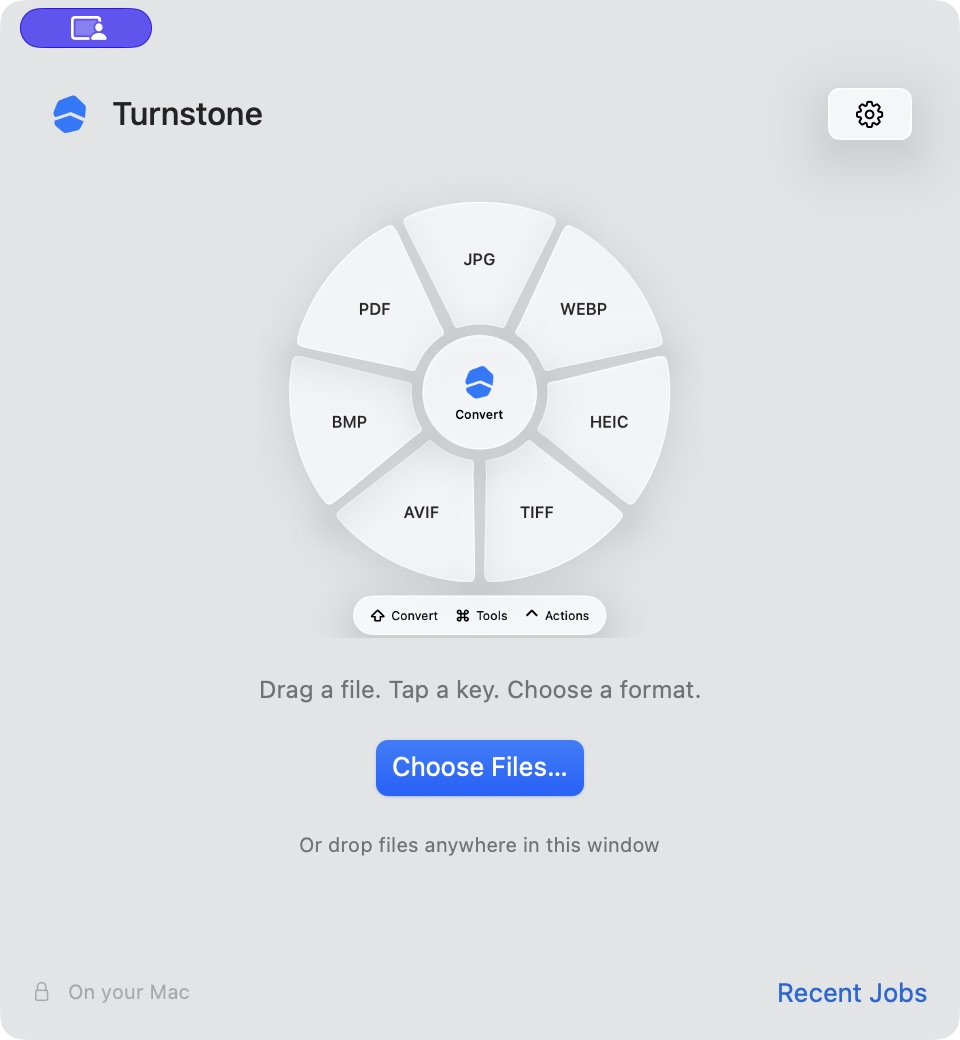
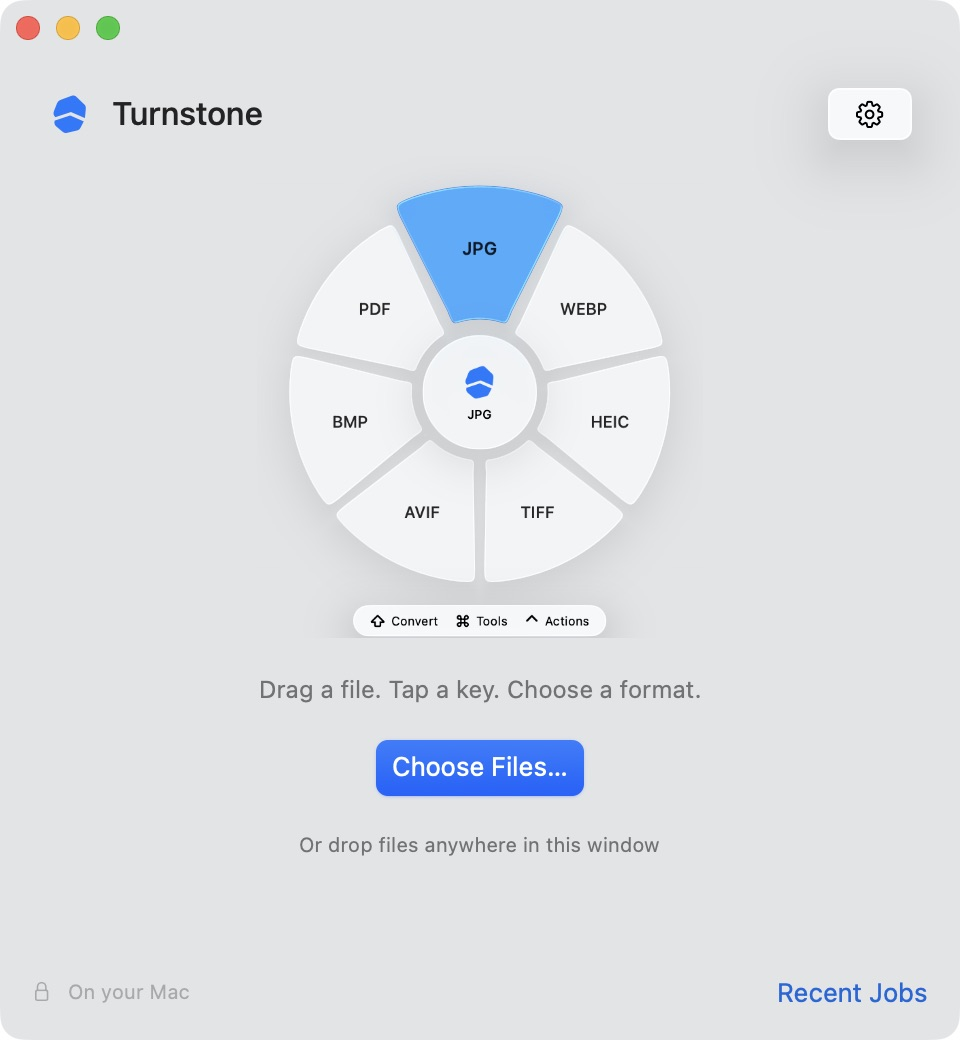
fix: quiet conversions and animate wheel selection

diff --git a/Sources/Turnstone/WheelAppearance.swift b/Sources/Turnstone/WheelAppearance.swift
@@ -9,6 +9,26 @@ struct WheelPetalAppearance: Identifiable {
     let position: CGPoint
 }
 
+enum WheelEmphasis {
+    static let scale: CGFloat = 1.08
+    static let lift: CGFloat = 8
+
+    static func offset(at anchor: CGPoint, from center: CGPoint) -> CGSize {
+        let dx = anchor.x - center.x, dy = anchor.y - center.y
+        let distance = hypot(dx, dy)
+        guard distance > 0 else { return .zero }
+        return CGSize(width: dx / distance * lift, height: dy / distance * lift)
+    }
+
+    static func transform(at anchor: CGPoint, from center: CGPoint, amount: CGFloat = 1) -> CGAffineTransform {
+        let offset = offset(at: anchor, from: center)
+        let scale = 1 + (scale - 1) * amount
+        return CGAffineTransform(translationX: anchor.x + offset.width * amount, y: anchor.y + offset.height * amount)
+            .scaledBy(x: scale, y: scale)
+            .translatedBy(x: -anchor.x, y: -anchor.y)
+    }
+}
+
 struct WheelAppearance: View {
     let petals: [WheelPetalAppearance]
     let selected: Int?
@@ -28,12 +48,12 @@ struct WheelAppearance: View {
                 shortcut(WheelMode.tools, "Tools")
                 shortcut(WheelMode.actions, "Actions")
             }
-            .padding(.horizontal, 12).padding(.vertical, 7)
+            .padding(.horizontal, 12).padding(.vertical, 4)
             .modifier(WheelGlass(shape: Capsule(), selected: false))
-            .fixedSize().position(x: center.x, y: 337)
+            .fixedSize().position(x: center.x, y: 341)
         }
         .frame(width: 328, height: 354)
-        .animation(reduceMotion ? nil : .easeInOut(duration: 0.14), value: selected)
+        .animation(reduceMotion ? nil : .spring(response: 0.26, dampingFraction: 0.72), value: selected)
         .allowsHitTesting(false)
         .accessibilityHidden(true)
     }
@@ -48,13 +68,24 @@ struct WheelAppearance: View {
             .modifier(WheelGlass(shape: RoundedRectangle(cornerRadius: 26), selected: false))
             .position(center)
         } else {
-            ForEach(petals) { petal in
-                Color.clear
-                    .frame(width: 328, height: 354)
-                    .modifier(WheelGlass(shape: PetalShape(path: petal.path), selected: selected == petal.id))
+            ZStack {
+                ForEach(petals) { petal in
+                    let active = selected == petal.id
+                    let lifted = active && !reduceMotion
+                    // Animating the path keeps native glass, its outline, and hit testing aligned.
+                    let shape = PetalShape(path: petal.path, anchor: petal.position, center: center, emphasis: lifted ? 1 : 0)
+                    Color.clear
+                        .frame(width: 328, height: 354)
+                        .modifier(WheelGlass(shape: shape, selected: active))
+                        .overlay(shape.stroke(Color.accentColor.opacity(active ? 0.85 : 0), lineWidth: 1.2))
+                        .shadow(color: Color.accentColor.opacity(active ? 0.20 : 0), radius: 8, y: 3)
+                        .zIndex(active ? 1 : 0)
+                }
             }
             // Keep labels above every glass surface so neighboring petals cannot refract them.
             ForEach(petals) { petal in
+                let lifted = selected == petal.id && !reduceMotion
+                let offset = lifted ? WheelEmphasis.offset(at: petal.position, from: center) : .zero
                 VStack(spacing: 5) {
                     if let symbol = petal.symbol {
                         Image(systemName: symbol).font(.system(size: 17, weight: .regular))
@@ -65,7 +96,9 @@ struct WheelAppearance: View {
                 }
                 .foregroundStyle(.primary)
                 .frame(width: petals.count > 7 ? 64 : 78)
+                .scaleEffect(lifted ? WheelEmphasis.scale : 1)
                 .position(petal.position)
+                .offset(offset)
             }
             VStack(spacing: 4) {
                 if let icon { Image(nsImage: icon).resizable().scaledToFit().frame(width: 27, height: 27) }
@@ -88,7 +121,16 @@ struct WheelAppearance: View {
 
 private struct PetalShape: Shape {
     let path: Path
-    func path(in rect: CGRect) -> Path { path }
+    let anchor: CGPoint
+    let center: CGPoint
+    var emphasis: CGFloat
+    var animatableData: CGFloat {
+        get { emphasis }
+        set { emphasis = newValue }
+    }
+    func path(in rect: CGRect) -> Path {
+        path.applying(WheelEmphasis.transform(at: anchor, from: center, amount: emphasis))
+    }
 }
 
 private struct WheelGlass<S: Shape>: ViewModifier {
@@ -102,15 +144,15 @@ private struct WheelGlass<S: Shape>: ViewModifier {
             content.background {
                 ZStack {
                     shape.fill(Color(nsColor: .windowBackgroundColor))
-                    if selected { shape.fill(Color.accentColor.opacity(0.20)) }
+                    if selected { shape.fill(Color.accentColor.opacity(0.35)) }
                 }
             }
             .overlay(shape.stroke(Color.primary.opacity(contrast == .increased ? 0.45 : 0.12), lineWidth: contrast == .increased ? 1 : 0.5))
         } else if #available(macOS 26, *) {
-            content.glassEffect(.regular.tint(selected ? Color.accentColor.opacity(0.25) : nil), in: shape)
+            content.glassEffect(.regular.tint(selected ? Color.accentColor.opacity(0.60) : nil), in: shape)
         } else {
             content.background(.ultraThinMaterial, in: shape)
-                .background(selected ? Color.accentColor.opacity(0.22) : .clear, in: shape)
+                .overlay(shape.fill(selected ? Color.accentColor.opacity(0.30) : .clear))
                 .overlay(shape.stroke(Color.primary.opacity(contrast == .increased ? 0.45 : 0.10), lineWidth: 0.5))
         }
     }

diff --git a/Tests/TurnstoneAppTests/InteractionTests.swift b/Tests/TurnstoneAppTests/InteractionTests.swift
@@ -1,0 +1,49 @@
+import AppKit
+import Combine
+import XCTest
+import TurnstoneCore
+@testable import Turnstone
+
+final class InteractionTests: XCTestCase {
+    @MainActor
+    func testSubmittingConversionDoesNotOpenRecentJobs() async throws {
+        _ = NSApplication.shared
+        let directory = FileManager.default.temporaryDirectory.appendingPathComponent(UUID().uuidString)
+        try FileManager.default.createDirectory(at: directory, withIntermediateDirectories: true)
+        defer { try? FileManager.default.removeItem(at: directory); Windows.close("jobs") }
+        let source = directory.appendingPathComponent("sample.png")
+        let bitmap = NSBitmapImageRep(bitmapDataPlanes: nil, pixelsWide: 8, pixelsHigh: 8, bitsPerSample: 8, samplesPerPixel: 4, hasAlpha: true, isPlanar: false, colorSpaceName: .deviceRGB, bytesPerRow: 0, bitsPerPixel: 0)!
+        try XCTUnwrap(bitmap.representation(using: .png, properties: [:])).write(to: source)
+
+        let model = AppModel()
+        model.submit(JobRequest(files: [source], operation: .convert("jpg")))
+        let job = try XCTUnwrap(model.jobs.first)
+        let completed = expectation(description: "Conversion finishes")
+        let observation = job.$finished.filter { $0 }.prefix(1).sink { _ in completed.fulfill() }
+        defer { observation.cancel() }
+        await fulfillment(of: [completed], timeout: 10)
+
+        XCTAssertTrue(job.errors.isEmpty, "\(job.errors)")
+        XCTAssertEqual(job.outputs.count, 1)
+        XCTAssertFalse(NSApp.windows.contains { $0.title == "Conversion Jobs" && $0.isVisible })
+        XCTAssertTrue(FileManager.default.fileExists(atPath: source.path))
+    }
+
+    @MainActor
+    func testHighlightedPetalKeepsItsPoppedOutEdgeSelectable() {
+        let canvas = WheelCanvas(frame: NSRect(x: 0, y: 0, width: 328, height: 354))
+        canvas.entries = ["jpg", "png", "webp", "pdf"].map(WheelEntry.format)
+        for index in 0..<4 {
+            canvas.selected = index
+            let angle = Double(90 - index * 90) * .pi / 180
+            canvas.updateSelection(NSPoint(x: 164 + cos(angle) * 150, y: 181 + sin(angle) * 150))
+            XCTAssertEqual(canvas.selected, NSWorkspace.shared.accessibilityDisplayShouldReduceMotion ? nil : index)
+        }
+        canvas.updateSelection(NSPoint(x: 264, y: 181))
+        XCTAssertEqual(canvas.selected, 1)
+        canvas.updateSelection(NSPoint(x: 164, y: 181))
+        XCTAssertNil(canvas.selected)
+        canvas.updateSelection(NSPoint(x: 164, y: 331))
+        XCTAssertNil(canvas.selected, "An inactive slice must not acquire selection outside its normal target")
+    }
+}

diff --git a/Sources/Turnstone/WheelController.swift b/Sources/Turnstone/WheelController.swift
@@ -163,10 +163,20 @@ final class WheelCanvas: NSView {
     }
 
     func updateSelection(_ point: NSPoint) {
-        guard let index = WheelGeometry.selection(x: point.x - center.x, y: point.y - center.y, count: entries.count) else { selected = nil; return }
-        let angle = 90.0 - Double(index) * 360 / Double(entries.count)
-        let half = 180 / Double(entries.count)
-        selected = path(start: angle - half, end: angle + half).contains(point) ? index : nil
+        if let index = WheelGeometry.selection(x: point.x - center.x, y: point.y - center.y, count: entries.count) {
+            let angle = 90.0 - Double(index) * 360 / Double(entries.count)
+            let half = 180 / Double(entries.count)
+            if path(start: angle - half, end: angle + half).contains(point) { selected = index; return }
+        }
+        // The active petal keeps its enlarged edge as a drop target without moving its base target.
+        if !NSWorkspace.shared.accessibilityDisplayShouldReduceMotion,
+           let selected, entries.indices.contains(selected) {
+            let appearance = wheelAppearance
+            let petal = appearance.petals[selected]
+            let transform = WheelEmphasis.transform(at: petal.position, from: appearance.center)
+            if petal.path.applying(transform).contains(CGPoint(x: point.x, y: 354 - point.y)) { return }
+        }
+        selected = nil
     }
 
     override func updateTrackingAreas() {

diff --git a/Sources/Turnstone/AppModel.swift b/Sources/Turnstone/AppModel.swift
@@ -55,7 +55,6 @@ final class AppModel: ObservableObject {
         let job = ConversionJob(request: request)
         jobs.insert(job, at: 0)
         if jobs.count > 50 { jobs = Array(jobs.prefix(50)) + jobs.dropFirst(50).filter { !$0.finished } }
-        showJobs()
         job.start()
     }
 
@@ -157,9 +156,6 @@ final class ConversionJob: ObservableObject, Identifiable {
                 }
                 finished = true
                 message = cancelled ? "Cancelled" : errors.isEmpty ? "Finished" : "Finished with errors"
-                if !outputs.isEmpty && UserDefaults.standard.object(forKey: "revealResults") as? Bool != false {
-                    NSWorkspace.shared.activateFileViewerSelecting(outputs)
-                }
             }
         } catch { errors = [error.localizedDescription]; message = "Couldn’t start"; finished = true }
     }

diff --git a/Sources/Turnstone/UtilityViews.swift b/Sources/Turnstone/UtilityViews.swift
@@ -155,7 +155,6 @@ struct ShelfView: View {
 }
 
 struct SettingsView: View {
-    @AppStorage("revealResults") private var reveal = true
     @AppStorage("wheelSound") private var sound = false
     @AppStorage("terminalApp") private var terminal = "Terminal"
     @AppStorage("conversionKey") private var conversionKey = "shift"
@@ -168,7 +167,6 @@ struct SettingsView: View {
         TabView {
             Form {
                 Section("Workflow") {
-                    Toggle("Reveal finished files in Finder", isOn: $reveal)
                     Toggle("Play a sound when a wheel item is selected", isOn: $sound)
                     Toggle("Start Turnstone at login", isOn: $login).onChange(of: login) { enabled in
                         do { if enabled { try SMAppService.mainApp.register() } else { try SMAppService.mainApp.unregister() } }

diff --git a/Package.swift b/Package.swift
@@ -11,6 +11,7 @@ let package = Package(
     targets: [
         .target(name: "TurnstoneCore"),
         .executableTarget(name: "Turnstone", dependencies: ["TurnstoneCore"]),
-        .testTarget(name: "TurnstoneCoreTests", dependencies: ["TurnstoneCore"])
+        .testTarget(name: "TurnstoneCoreTests", dependencies: ["TurnstoneCore"]),
+        .testTarget(name: "TurnstoneAppTests", dependencies: ["Turnstone"])
     ]
 )

diff --git a/docs/research/verification.md b/docs/research/verification.md
@@ -4,7 +4,7 @@ Verified locally on 2026-10-18 on an Apple silicon Mac.
 
 ## Automated verification
 
-`DEVELOPER_DIR=/Applications/Xcode.app/Contents/Developer swift test` passed all 61 XCTest cases with zero failures.
+`DEVELOPER_DIR=/Applications/Xcode.app/Contents/Developer swift test` passed all 63 XCTest cases with zero failures: 61 core cases and two app interaction cases.
 The test build and release build produced no source warnings.
 `scripts/build-app.sh` produced an ad-hoc signed application in `dist/Turnstone.app`.
 `codesign --verify --deep --strict` accepted the application.
@@ -74,6 +74,27 @@ The 16 and 256 pixel artwork was visually inspected.
 Native UI inspection confirms the Turnstone app and menu names, welcome screen, About view, and a completed PNG-to-JPEG conversion through the keyboard wheel.
 Updated welcome screenshots and icon exports record the new identity.
 A separate reviewer checked rename completeness, shared vector rendering, packaging, and regression scope.
+
+## Quiet conversions and wheel feedback verification
+
+Reproduced automatic Recent Jobs opening and automatic Finder output reveal through a native PNG-to-JPEG conversion before changing the behavior.
+Regression tests initially failed for an automatically opened jobs window and for dropping on the enlarged edge of an active slice.
+The app test target performs a real conversion and confirms that its output and source exist while Recent Jobs stays closed.
+A real WheelCanvas test checks all four cardinal expanded edges, normal neighboring targets, center cancellation, and inactive outer space.
+Both tests pass alongside all 61 core cases.
+
+Conversions retain their jobs and errors for manual inspection without opening windows or Finder automatically.
+The obsolete automatic-reveal preference is removed; manual Recent Jobs and its Finder reveal button remain available.
+A native keyboard conversion produced a separate JPEG while leaving Recent Jobs closed and Finder's window and selection unchanged.
+Opening Recent Jobs manually confirmed the completed outputs.
+
+The selected slice enlarges by eight percent, lifts outward by eight points, and uses a spring transition with a stronger accent tint and outline.
+The glass fill, outline, and extended hit target use the same transformed path.
+The reduced-motion appearance retains color highlighting without spatial movement.
+The native lower-slice preview confirmed aligned glass and outline geometry and clearance above the shortcut strip.
+The release app builds, passes strict code-signature verification, and was approved by a separate reviewer after the native glass correction.
+The updated wheel screenshot records the selected lower slice.
+The full global Finder drag gesture and separate accessibility appearance configurations retain the manual verification limits below.
 
 ## Remaining verification and fidelity limits
 

diff --git a/README.md b/README.md
@@ -44,12 +44,16 @@ Writing native `.pages` files additionally requires Apple Pages and its Automati
 4. Drop to apply the operation.
 
 The center, gaps between petals, and space outside the wheel do not select an operation.
+The active slice grows and lifts outward with a spring animation and an accent highlight.
+Its enlarged edge remains a valid drop target, and Reduce Motion keeps the highlight still.
 Choose Files from the menu or drop files into the welcome window for the keyboard workflow.
 Arrow keys select a petal, Return applies it, and Escape closes the wheel.
 The modifier shortcuts can be changed in Settings.
 
 Conversions and edits save new copies beside the originals, with numbered names on collisions.
-Jobs support cancellation, per-file errors, and revealing completed outputs in Finder.
+Conversions finish without opening windows or Finder.
+Open **Recent Jobs** from the menu to inspect progress, errors, or completed files, and use its folder button to reveal an output.
+Jobs support cancellation and per-file errors.
 The explicit **Move** action relocates originals after a destination picker and collision checks.
 No file is uploaded for conversion.
 Pages, LibreOffice, and other independently installed applications retain their own behavior and preferences.
@@ -61,7 +65,7 @@ Pages, LibreOffice, and other independently installed applications retain their 
 - All 26 researched tool categories, including photo adjustment, annotation, background styling, crops, collage, metadata, compression, trimming, normalization, channels, bleeping, redaction, splitting, joining, snapshots, audio visualization, and PDF organization.
 - AirDrop, a draggable floating shelf with edge pinning, clipboard file copy, Move, Copy Path, and Terminal or iTerm2.
 - Native previews, editable image regions, waveform and timeline controls, page thumbnails, and batch ordering.
-- Launch at login, custom modifier keys, optional selection sounds, and Finder reveal preferences.
+- Launch at login, custom modifier keys, optional selection sounds, and manual Finder reveal.
 
 See the [feature inventory](docs/research/feature-inventory.md) for research evidence and fidelity limits.
 Catalog entries describe supported routes; successful conversion also depends on the input and locally available engines.
